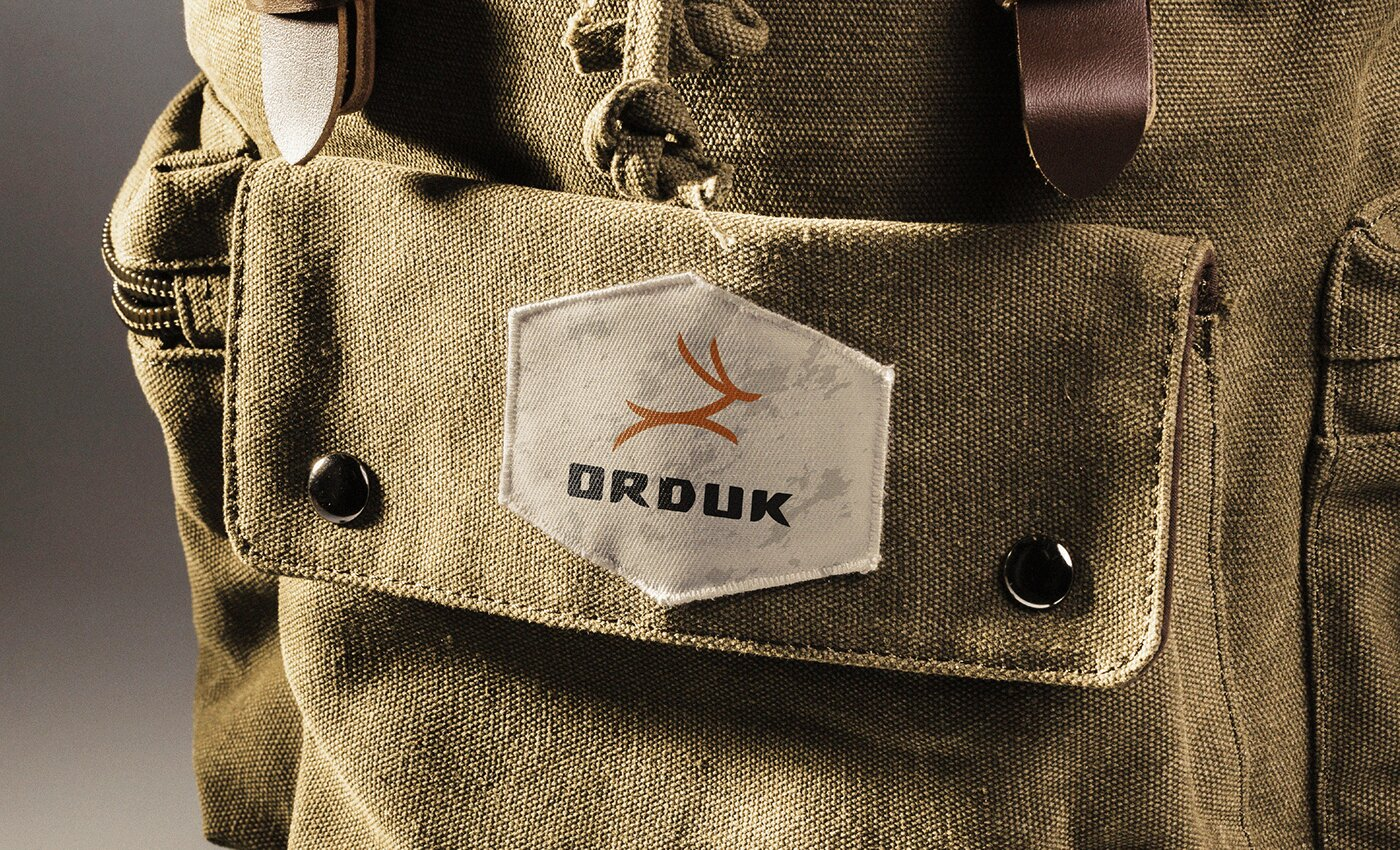
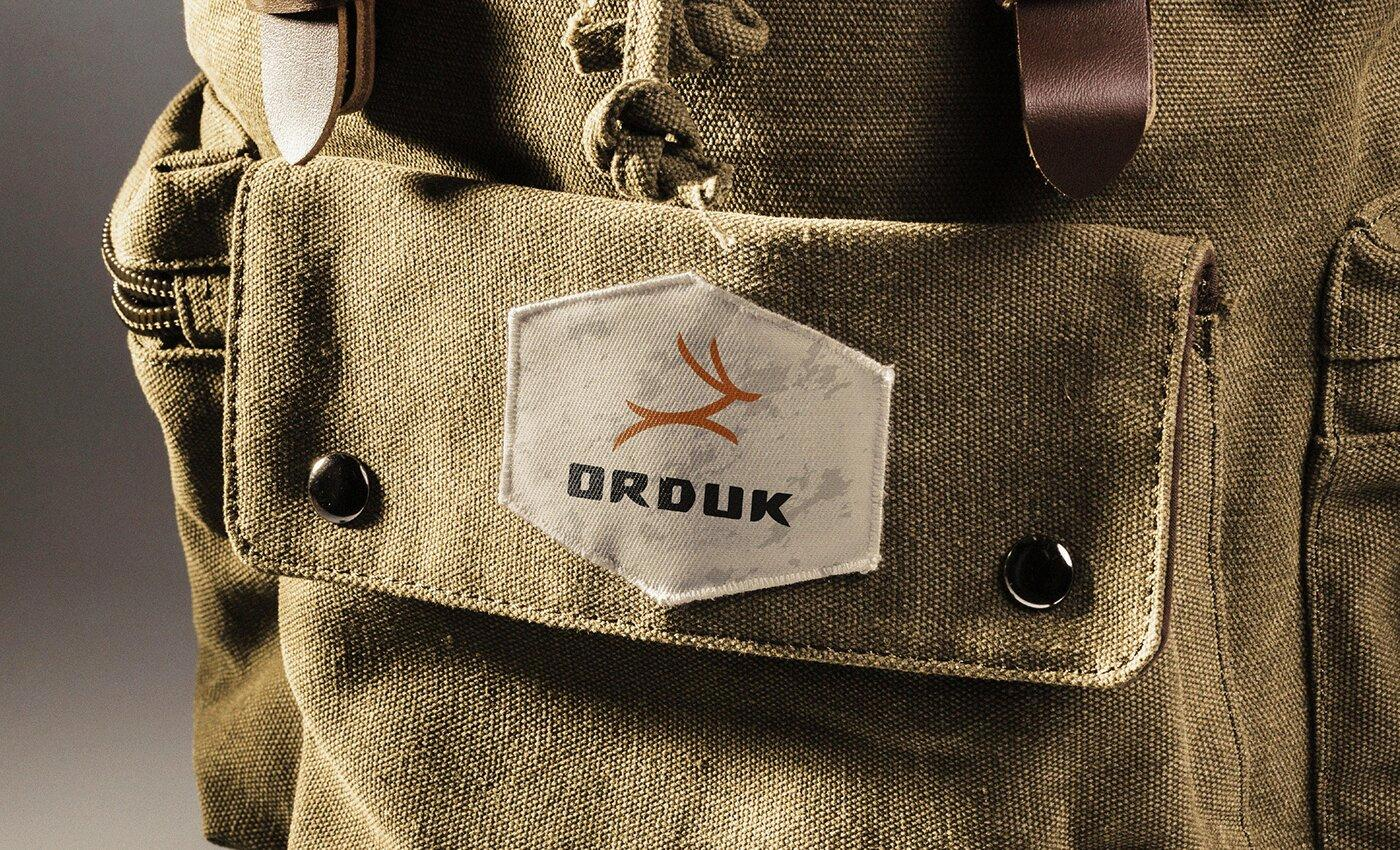
add optimization images

diff --git a/src/views/Portfolio.vue b/src/views/Portfolio.vue
@@ -5,57 +5,89 @@
         <figcaption style="display: none">section title</figcaption>
         <div class="portfolio">
           <figure
+            tabindex="0"
+            @keypress="$router.push(`/portfolio/paporotnik`)"
             class="portfolio-item animate__animated animate__fadeInUp"
             @click="$router.push(`/portfolio/paporotnik`)"
           >
-            <img
-              class="portfolio-item__img"
-              v-lazy
-              src="../images/lazy-small.jpeg"
-              :data-src="require('../images/portfolio/paporotnik-cover.jpg')"
-              alt="paporotnik"
-              height="400"
-            />
+            <picture>
+              <source
+                srcset="../images/portfolio/paporotnik-cover.webp"
+                type="image/webp"
+              />
+              <img
+                class="portfolio-item__img"
+                v-lazy
+                src="../images/lazy-small.jpeg"
+                :data-src="require('../images/portfolio/paporotnik-cover.jpg')"
+                alt="paporotnik"
+                height="400"
+              />
+            </picture>
             <figcaption class="portfolio-item__text">
               paporotnik - эко-пространство
             </figcaption>
           </figure>
           <figure
+            tabindex="0"
+            @keypress="$router.push(`/portfolio/kerkemeli`)"
             class="portfolio-item animate__animated animate__fadeInUp"
             @click="$router.push(`/portfolio/kerkemeli`)"
           >
-            <img
-              class="portfolio-item__img"
-              v-lazy
-              src="../images/lazy-small.jpeg"
-              :data-src="require('../images/portfolio/kerkemeli-cover.jpg')"
-              alt="kerkemeli"
-              height="400"
-            />
+            <picture>
+              <source
+                srcset="../images/portfolio/kerkemeli-cover.webp"
+                type="image/webp"
+              />
+              <img
+                class="portfolio-item__img"
+                v-lazy
+                src="../images/lazy-small.jpeg"
+                :data-src="require('../images/portfolio/kerkemeli-cover.jpg')"
+                alt="kerkemeli"
+                height="400"
+              />
+            </picture>
             <figcaption class="portfolio-item__text">
               kerkemeli - мастерская украшений
             </figcaption>
           </figure>
           <figure
+            tabindex="0"
+            @keypress="$router.push(`/portfolio/swag`)"
             class="portfolio-item animate__animated animate__fadeInUp"
             @click="$router.push(`/portfolio/swag`)"
           >
-            <img
-              class="portfolio-item__img"
-              v-lazy
-              src="../images/lazy-small.jpeg"
-              :data-src="require('../images/portfolio/swag-cover.jpg')"
-              alt="swagAir"
-              height="400"
-            />
+            <picture>
+              <source
+                srcset="../images/portfolio/swag-cover.webp"
+                type="image/webp"
+              />
+              <img
+                class="portfolio-item__img"
+                v-lazy
+                src="../images/lazy-small.jpeg"
+                :data-src="require('../images/portfolio/swag-cover.jpg')"
+                alt="swagAir"
+                height="400"
+              />
+            </picture>
             <figcaption class="portfolio-item__text">
               swag air - студия детейлинга
             </figcaption>
           </figure>
           <figure
+            tabindex="0"
+            @keypress="$router.push(`/portfolio/orduk`)"
             class="portfolio-item animate__animated animate__fadeInUp"
             @click="$router.push(`/portfolio/orduk`)"
           >
+            <picture>
+              <source
+                srcset="../images/portfolio/orduk-cover.webp"
+                type="image/webp"
+              />
+            </picture>
             <img
               class="portfolio-item__img"
               v-lazy
@@ -69,33 +101,49 @@
             </figcaption>
           </figure>
           <figure
+            tabindex="0"
+            @keypress="$router.push(`/portfolio/visota`)"
             class="portfolio-item animate__animated animate__fadeInUp"
             @click="$router.push(`/portfolio/visota`)"
           >
-            <img
-              class="portfolio-item__img"
-              v-lazy
-              src="../images/lazy-small.jpeg"
-              :data-src="require('../images/portfolio/visota-cover.jpg')"
-              alt="visota"
-              height="400"
-            />
+            <picture>
+              <source
+                srcset="../images/portfolio/visota-cover.webp"
+                type="image/webp"
+              />
+              <img
+                class="portfolio-item__img"
+                v-lazy
+                src="../images/lazy-small.jpeg"
+                :data-src="require('../images/portfolio/visota-cover.jpg')"
+                alt="visota"
+                height="400"
+              />
+            </picture>
             <figcaption class="portfolio-item__text">
               Высота - туристический глемпинг
             </figcaption>
           </figure>
           <figure
+            tabindex="0"
+            @keypress="$router.push(`/portfolio/altai`)"
             class="portfolio-item animate__animated animate__fadeInUp"
             @click="$router.push(`/portfolio/altai`)"
           >
-            <img
-              v-lazy
-              src="../images/lazy-small.jpeg"
-              class="portfolio-item__img"
-              :data-src="require('../images/portfolio/altai-cover.jpg')"
-              alt="altai"
-              height="400"
-            />
+            <picture>
+              <source
+                srcset="../images/portfolio/altai-cover.webp"
+                type="image/webp"
+              />
+              <img
+                v-lazy
+                src="../images/lazy-small.jpeg"
+                class="portfolio-item__img"
+                :data-src="require('../images/portfolio/altai-cover.jpg')"
+                alt="altai"
+                height="400"
+              />
+            </picture>
             <figcaption class="portfolio-item__text">
               Ару Алтай - туристический комплекс
             </figcaption>

diff --git a/src/views/Example.vue b/src/views/Example.vue
@@ -13,7 +13,7 @@
               @click="(toggler = !toggler), (imageOrder = idx + 1)"
               :src="
                 require(`../images/portfolio/${$route.params.id}-${
-                  idx + 1
+                  +idx + 1
                 }.jpg`)
               "
               alt="exampleImage"
